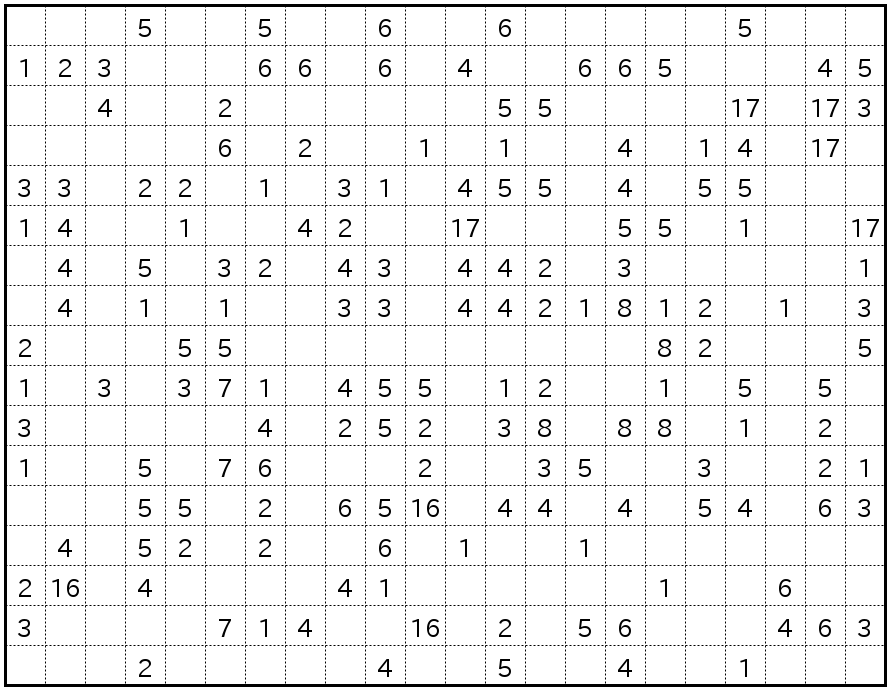
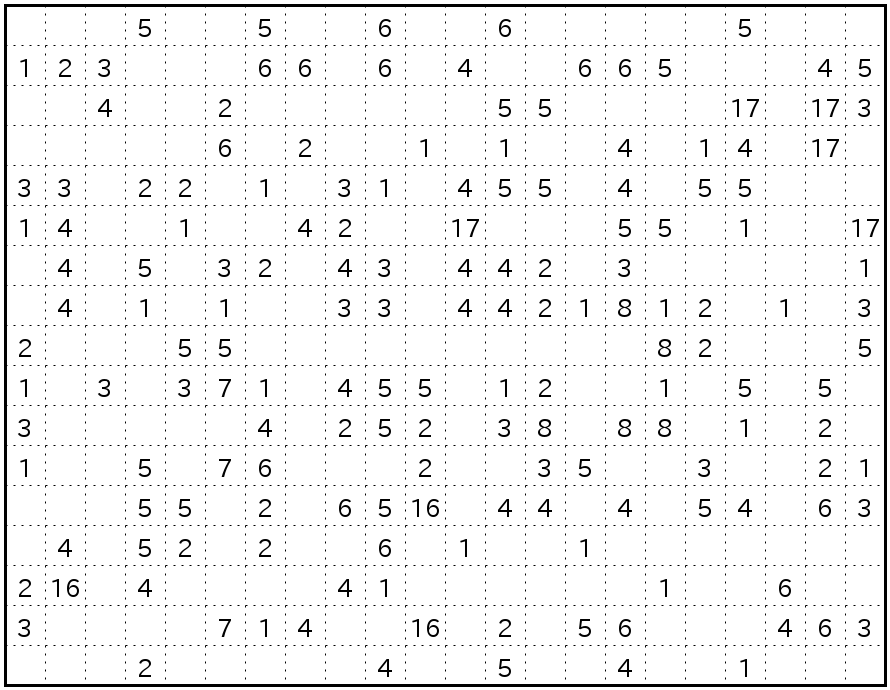
..

diff --git a/src/test/java/test/puzzle/core/TestFilominoDecoder.java b/src/test/java/test/puzzle/core/TestFilominoDecoder.java
@@ -15,7 +15,6 @@ import java.util.regex.Matcher;
 import java.util.regex.Pattern;
 
 import org.junit.Test;
-import org.w3c.dom.css.Rect;
 
 import puzzle.graphics.ImageWriter;
 
@@ -34,7 +33,7 @@ import puzzle.graphics.ImageWriter;
  */
 public class TestFilominoDecoder {
 
-    static int[][] decode(int rows, int cols, String data) {
+    static int[][] matrixDecode(int rows, int cols, String data) {
         int[] array = new int[rows * cols];
         int j = 0;
         for (int i = 0, length = data.length(); i < length;  ++i) {
@@ -70,25 +69,25 @@ public class TestFilominoDecoder {
 
     static final Pattern FILOMINO_URL = Pattern.compile("/(\\d+)/(\\d+)/(\\S+)$");
 
-    static int[][] decode(String url) {
+    static int[][] matrixUrlDecode(String url) {
         Matcher m = FILOMINO_URL.matcher(url);
         if (m.find())
-            return decode(
+            return matrixDecode(
                 Integer.parseInt(m.group(2)),
                 Integer.parseInt(m.group(1)),
                 m.group(3));
         else
             throw new RuntimeException("Illgal format '%s'".formatted(url));
     }
-    static String url = "http://pzv.jp/p.html?fillomino/22/17/i5h5h6h6k5i123i66g6g4h665i4"
+    static String URL_22x17 = "http://pzv.jp/p.html?fillomino/22/17/i5h5h6h6k5i123i66g6g4h665i4"
         + "5h4h2l55j-11g-113k6g2h1g1h4g14g-11g33g22g1g31g455g4g55i14h1h42h-"
         + "11i55g1h-11g4g5g32g43g442g3k1g4g1g1h33g4421812g1g32i55p82i51g3g3"
         + "71g455g12h1g5g5g3k4g252g38g88g1g2g1h5g76i2h35h3h21i55g2g65-10g44"
         + "g4g54g63g4g52g2h6g1h1m2-10g4j41l1h6h3j714h-10g2g56i463i2k4h5h4h1i";
 
-    @Test
+    // @Test
     public void testDecode() {
-        int[][] matrix = decode(url);
+        int[][] matrix = matrixUrlDecode(URL_22x17);
         for (int[] row : matrix)
             System.out.println(Arrays.toString(row));
     }
@@ -105,7 +104,7 @@ public class TestFilominoDecoder {
             iw.graphics().setColor(Color.BLACK);
             iw.graphics().setStroke(new BasicStroke(3));
             iw.graphics().drawRect(margin, margin, cols * cellSize, rows * cellSize);
-            iw.graphics().setStroke(new BasicStroke(1, BasicStroke.CAP_BUTT, BasicStroke.JOIN_BEVEL, 1, new float[]{2}, 0));
+            iw.graphics().setStroke(new BasicStroke(1, BasicStroke.CAP_BUTT, BasicStroke.JOIN_BEVEL, 1, new float[]{2, 6}, 0));
             for (int x = 0; x < cols; ++x) {
                 int x0 = x * cellSize + margin;
                 iw.graphics().drawLine(x0, margin, x0, rows * cellSize + margin);
@@ -127,7 +126,7 @@ public class TestFilominoDecoder {
                     String numberStr = Integer.toString(number);
                     Rectangle2D rect = fm.getStringBounds(numberStr, iw.graphics());
                     int x = c * cellSize + margin + (cellSize - (int)rect.getWidth()) / 2;
-                    System.out.println(numberStr + " : " + rect);
+                    // System.out.println(numberStr + " : " + rect);
                     iw.graphics().drawString(numberStr, x, y);
                 }
             }
@@ -142,7 +141,7 @@ public class TestFilominoDecoder {
 
     @Test
     public void testDecodeMatrixWriter() throws IOException {
-        int[][] matrix = decode(url);
+        int[][] matrix = matrixUrlDecode(URL_22x17);
         matrixWriter(matrix, Paths.get("22x17.png"));
     }
 
